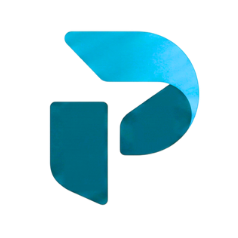
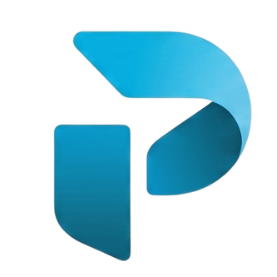
feat: redesign sidebar and topbar — white sidebar, petrol topbar
Sidebar (icons.tsx + base.tsx):
- Remove floating style (rounded corners, margins, shadow)
- Now fixed full-height with border-r border-gray-200
- Background: white (was petrol gradient)
- Logo: normal color, no brightness-0 invert filter
- Nav items: gray-600 text, hover to petrol, active item petrol bg + white text
- Sub-items: gray-500 text, same hover/active pattern
- Footer: gray text on white, border-gray-100

Topbar (icons.tsx):
- Background: petrol->cyan gradient (was white/80 backdrop-blur)
- Firm name: white (was gray-800)
- Notifications bell: white/80, hover white/15 bg
- User menu button: white text, white/20 avatar, hover white/15 bg
- Dropdowns remain white (bg-white) for readability

Images:
- Update pragmaos-logo.png and pragmaos-icon.png with new versions

Generated with [Devin](https://devin.ai)

Changed region(s): [[0.1765, 0.0882, 0.9118, 0.9412]]

diff --git a/src/components/icons.tsx b/src/components/icons.tsx
@@ -163,9 +163,9 @@ export const Sidebar: FC<{ active: string }> = ({ active }) => {
   );
 
   return (
-    <aside class="h-full w-sidebar flex flex-col overflow-y-auto" style="background: linear-gradient(180deg, #006382 0%, #00b3e6 100%);">
-      <div class="h-16 flex items-center gap-2.5 px-5 shrink-0 border-b border-white/5">
-        <img src="/static/img/pragmaos-logo.png" alt="PragmaOS" class="h-8 w-auto brightness-0 invert" />
+    <aside class="h-full w-sidebar flex flex-col overflow-y-auto bg-white">
+      <div class="h-16 flex items-center gap-2.5 px-5 shrink-0 border-b border-gray-100">
+        <img src="/static/img/pragmaos-logo.png" alt="PragmaOS" class="h-8 w-auto" />
       </div>
       <nav class="flex-1 flex flex-col py-3 gap-0.5 px-3">
         {MENU.map((item) => {
@@ -176,7 +176,7 @@ export const Sidebar: FC<{ active: string }> = ({ active }) => {
               <a
                 href={item.href}
                 class={`flex items-center gap-3 px-3 py-2.5 text-body-sm rounded-lg transition-all${
-                  isActive ? " bg-white/15 text-white font-semibold" : " text-white/70 hover:bg-white/10 hover:text-white"
+                  isActive ? " bg-[#006382] text-white font-semibold" : " text-gray-600 hover:bg-gray-100 hover:text-[#006382]"
                 }`}
                 aria-current={isActive ? "page" : undefined}
               >
@@ -194,7 +194,7 @@ export const Sidebar: FC<{ active: string }> = ({ active }) => {
               <button
                 {...{ "@click": "open = !open" }}
                 class={`flex items-center justify-between px-3 py-2.5 text-body-sm rounded-lg transition-all w-full${
-                  isExpanded ? " text-white" : " text-white/70 hover:bg-white/10 hover:text-white"
+                  isExpanded ? " text-[#006382] font-semibold" : " text-gray-600 hover:bg-gray-100 hover:text-[#006382]"
                 }`}
               >
                 <span class="flex items-center gap-3">
@@ -210,7 +210,7 @@ export const Sidebar: FC<{ active: string }> = ({ active }) => {
                     <a
                       href={child.href}
                       class={`flex items-center gap-3 px-3 py-2 text-body-sm rounded-lg transition-all${
-                        isActive ? " bg-white/15 text-white font-semibold" : " text-white/60 hover:bg-white/10 hover:text-white"
+                        isActive ? " bg-[#006382] text-white font-semibold" : " text-gray-500 hover:bg-gray-100 hover:text-[#006382]"
                       }`}
                       aria-current={isActive ? "page" : undefined}
                     >
@@ -224,12 +224,12 @@ export const Sidebar: FC<{ active: string }> = ({ active }) => {
           );
         })}
       </nav>
-      <div class="px-3 py-3 shrink-0 border-t border-white/10 flex items-center justify-between">
-        <a href="/help" class="flex items-center gap-2 px-2 py-1.5 rounded-lg text-body-xs text-white/60 hover:bg-white/10 hover:text-white transition-colors">
+      <div class="px-3 py-3 shrink-0 border-t border-gray-100 flex items-center justify-between">
+        <a href="/help" class="flex items-center gap-2 px-2 py-1.5 rounded-lg text-body-xs text-gray-500 hover:bg-gray-100 hover:text-[#006382] transition-colors">
           <i class="ph ph-lifebuoy" aria-hidden="true" />
           Central de Ajuda
         </a>
-        <span class="text-body-xs text-white/40">v0.2.0</span>
+        <span class="text-body-xs text-gray-400">v0.2.0</span>
       </div>
     </aside>
   );
@@ -240,8 +240,8 @@ export const Topbar: FC<{ firmName?: string; userName: string; userRole?: string
   userName,
   userRole,
 }) => (
-  <header class="w-full h-16 bg-white/80 backdrop-blur-md border-b border-gray-100 flex items-center justify-between px-6 sticky top-0 z-30">
-    <span class="text-h3 text-gray-800 font-semibold">{firmName ?? "PragmaOS"}</span>
+  <header class="w-full h-16 flex items-center justify-between px-6 sticky top-0 z-30" style="background: linear-gradient(135deg, #006382 0%, #00b3e6 100%);">
+    <span class="text-h3 text-white font-semibold">{firmName ?? "PragmaOS"}</span>
     <div class="flex items-center gap-4">
       {/* Notifications bell with badge */}
       <div {...{ "x-data": "{ count: 0, open: false, async fetch() { try { const r = await fetch('/notifications/api/count'); const d = await r.json(); this.count = d.count ?? 0; } catch(e) {} }, init() { this.fetch(); setInterval(() => this.fetch(), 30000); } }" }} class="relative flex items-center">
@@ -249,7 +249,7 @@ export const Topbar: FC<{ firmName?: string; userName: string; userRole?: string
         <button
           {...{ "@click": "open = !open" }}
           aria-label="Notificacoes"
-          class="relative p-2 rounded-lg hover:bg-gray-50 text-gray-500 hover:text-gray-700 flex items-center justify-center"
+          class="relative p-2 rounded-lg hover:bg-white/15 text-white/80 hover:text-white flex items-center justify-center"
         >
           <i class="ph ph-bell text-h4" aria-hidden="true"></i>
           <span {...{ "x-show": "count > 0", "x-text": "count > 99 ? '99+' : count" }} x-cloak
@@ -281,14 +281,14 @@ export const Topbar: FC<{ firmName?: string; userName: string; userRole?: string
           {...{ "@click": "open = !open" }}
           aria-label="Menu do usuario"
           aria-haspopup="menu"
-          class="flex items-center gap-2 text-body-sm text-gray-700 hover:text-gray-900 font-medium rounded-lg px-2 py-1.5 hover:bg-gray-50"
+          class="flex items-center gap-2 text-body-sm text-white font-medium rounded-lg px-2 py-1.5 hover:bg-white/15"
         >
-          <div class="w-8 h-8 rounded-full bg-gradient-to-br from-terracota-400 to-terracota-600 flex items-center justify-center text-white text-body-sm font-bold">
+          <div class="w-8 h-8 rounded-full bg-white/20 flex items-center justify-center text-white text-body-sm font-bold">
             {userName.charAt(0).toUpperCase()}
           </div>
           <span class="hidden sm:flex flex-col items-start leading-tight">
-            <span>{userName}</span>
-            {userRole ? <span class="text-body-xs text-gray-400 font-normal">{userRole}</span> : null}
+            <span class="text-white">{userName}</span>
+            {userRole ? <span class="text-body-xs text-white/60 font-normal">{userRole}</span> : null}
           </span>
         </button>
         <div

diff --git a/src/layouts/base.tsx b/src/layouts/base.tsx
@@ -47,14 +47,14 @@ export const Layout: FC<PropsWithChildren<BaseData>> = ({
         x-cloak
         class="fixed inset-0 bg-black/50 z-40 lg:hidden"
       ></div>
-      {/* Sidebar — floating with margin and rounded corners */}
+      {/* Sidebar — fixed, full height */}
       <div
         {...{ ":class": "sidebarOpen ? 'translate-x-0' : '-translate-x-full lg:translate-x-0'", "@keydown.escape.window": "sidebarOpen = false" }}
-        class="fixed top-3 left-3 z-50 h-[calc(100vh-1.5rem)] rounded-2xl overflow-hidden shadow-2xl shadow-black/20 transition-transform duration-200"
+        class="fixed top-0 left-0 z-50 h-screen w-sidebar overflow-y-auto border-r border-gray-200 transition-transform duration-200"
       >
         <Sidebar active={active} />
       </div>
-      <div class="flex flex-col min-h-screen lg:ml-[264px]">
+      <div class="flex flex-col min-h-screen lg:ml-sidebar">
         {/* Mobile hamburger button */}
         <button
           {...{ "@click": "sidebarOpen = true" }}
